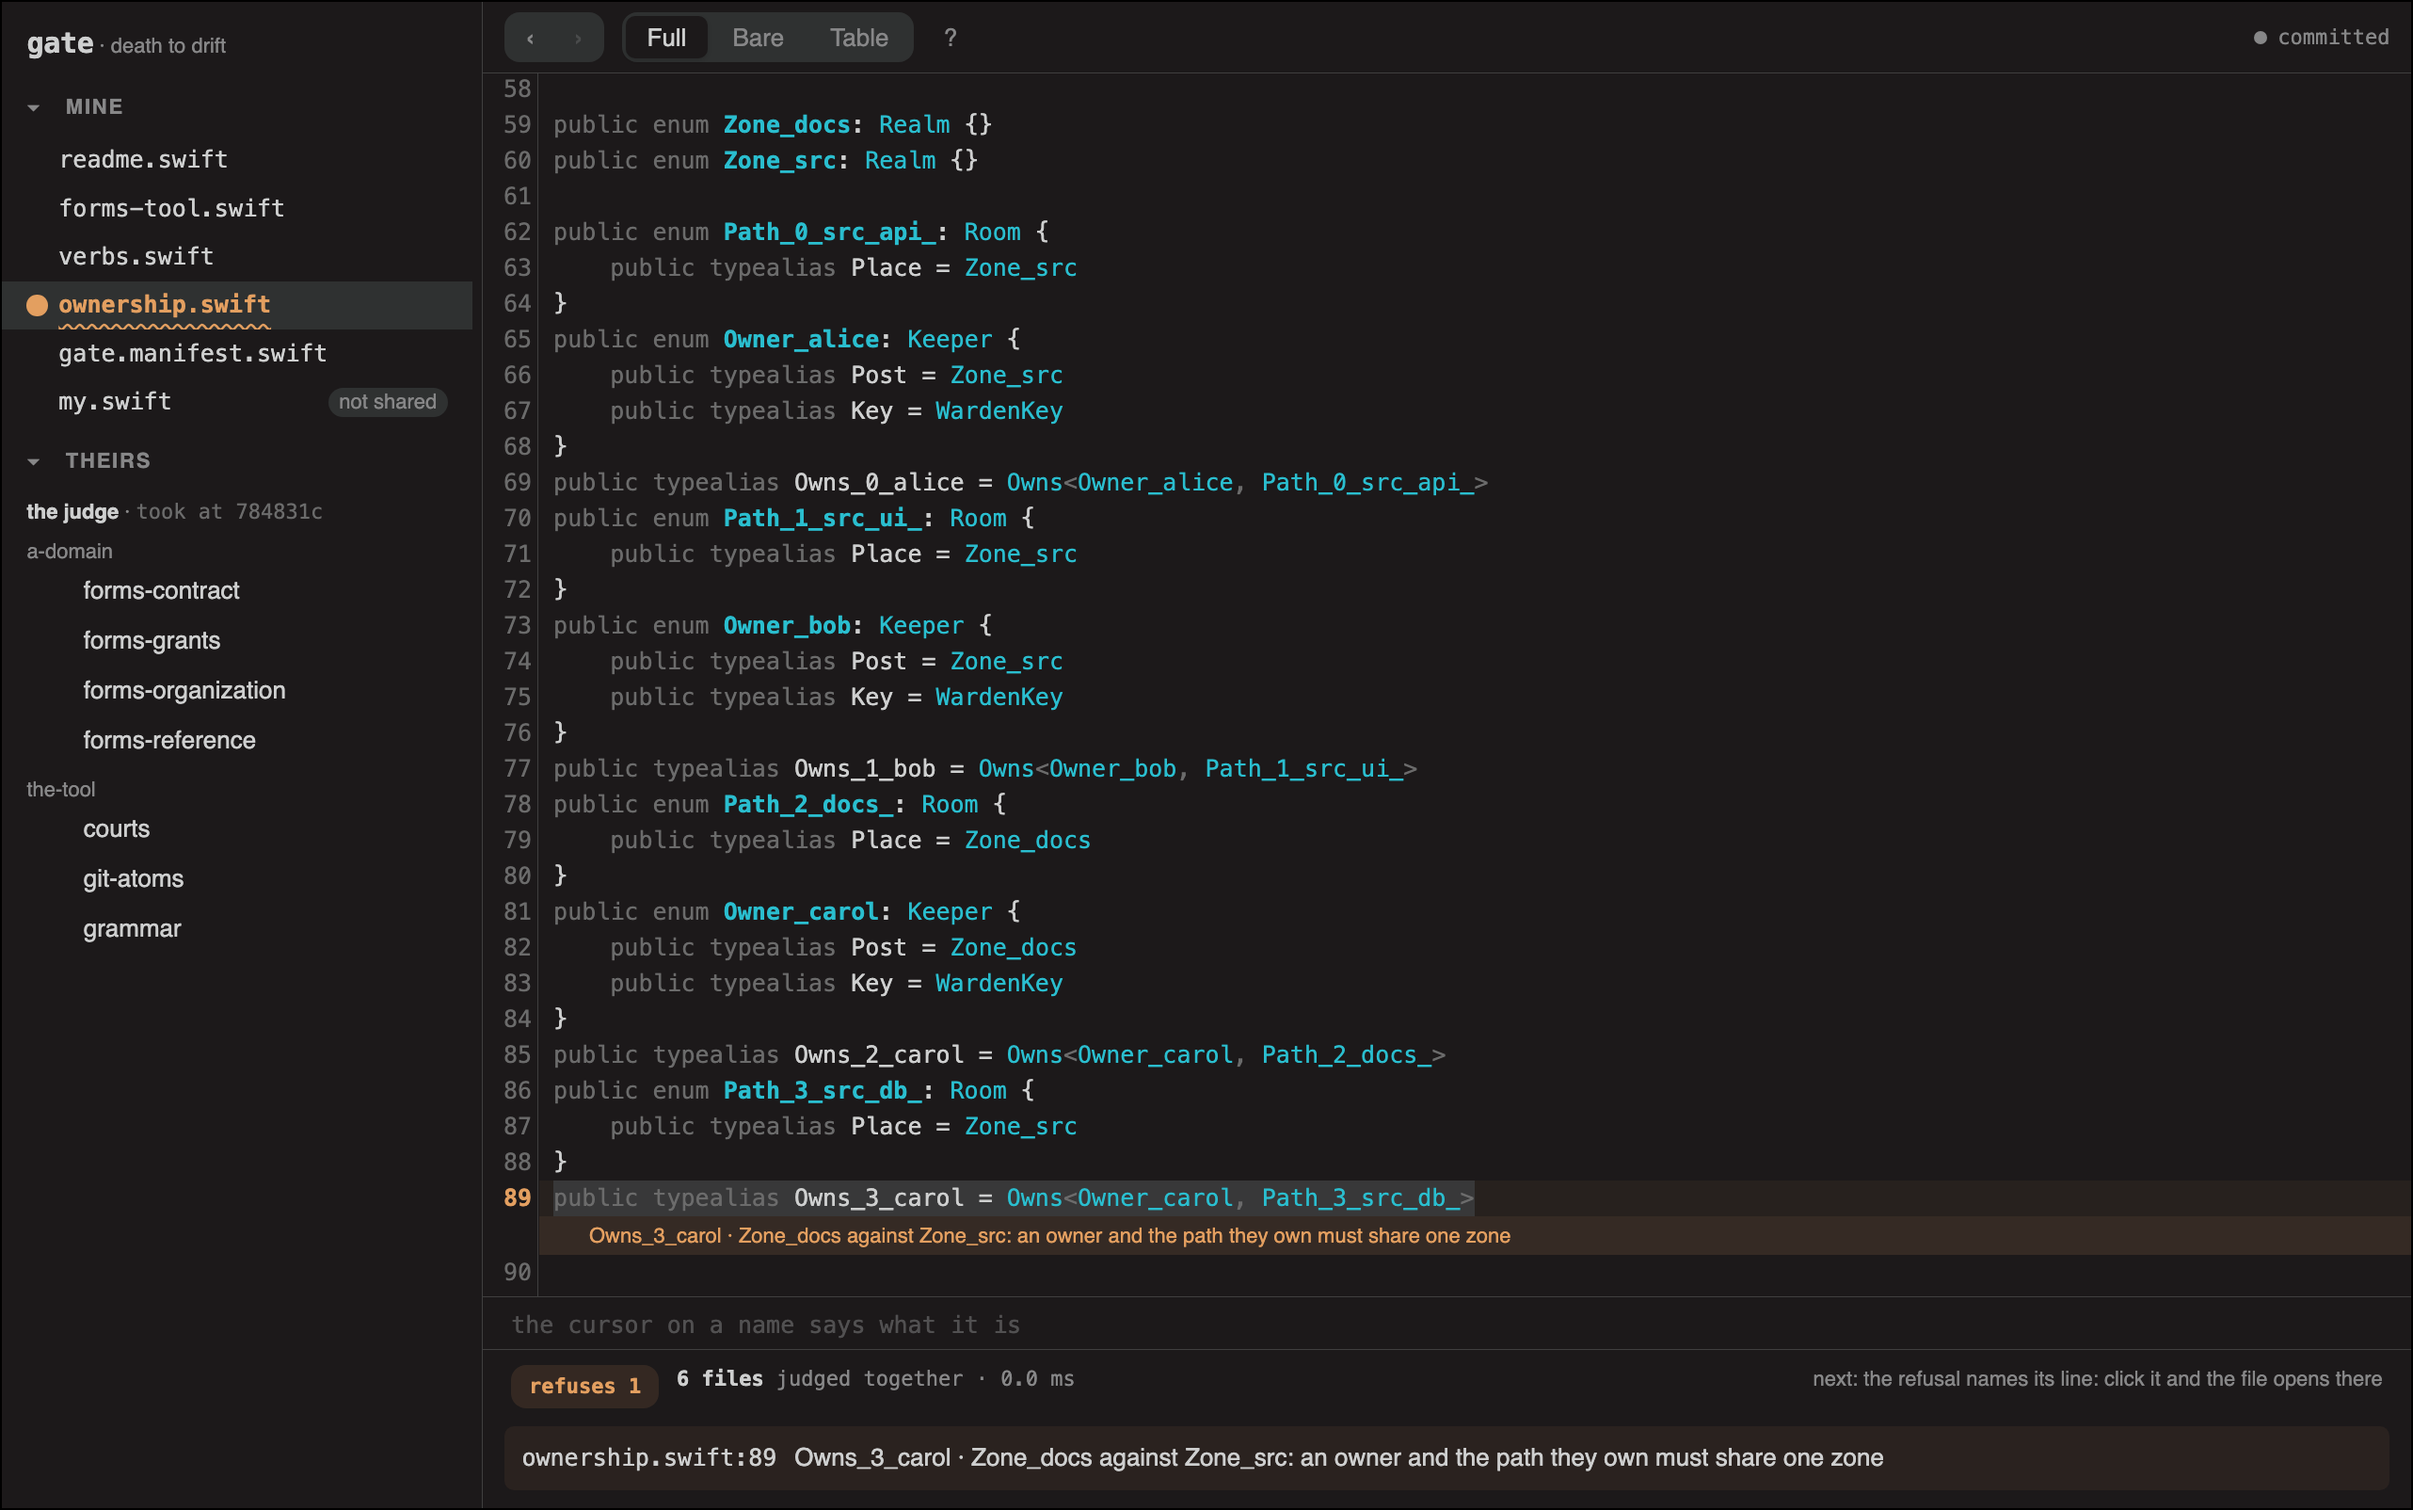
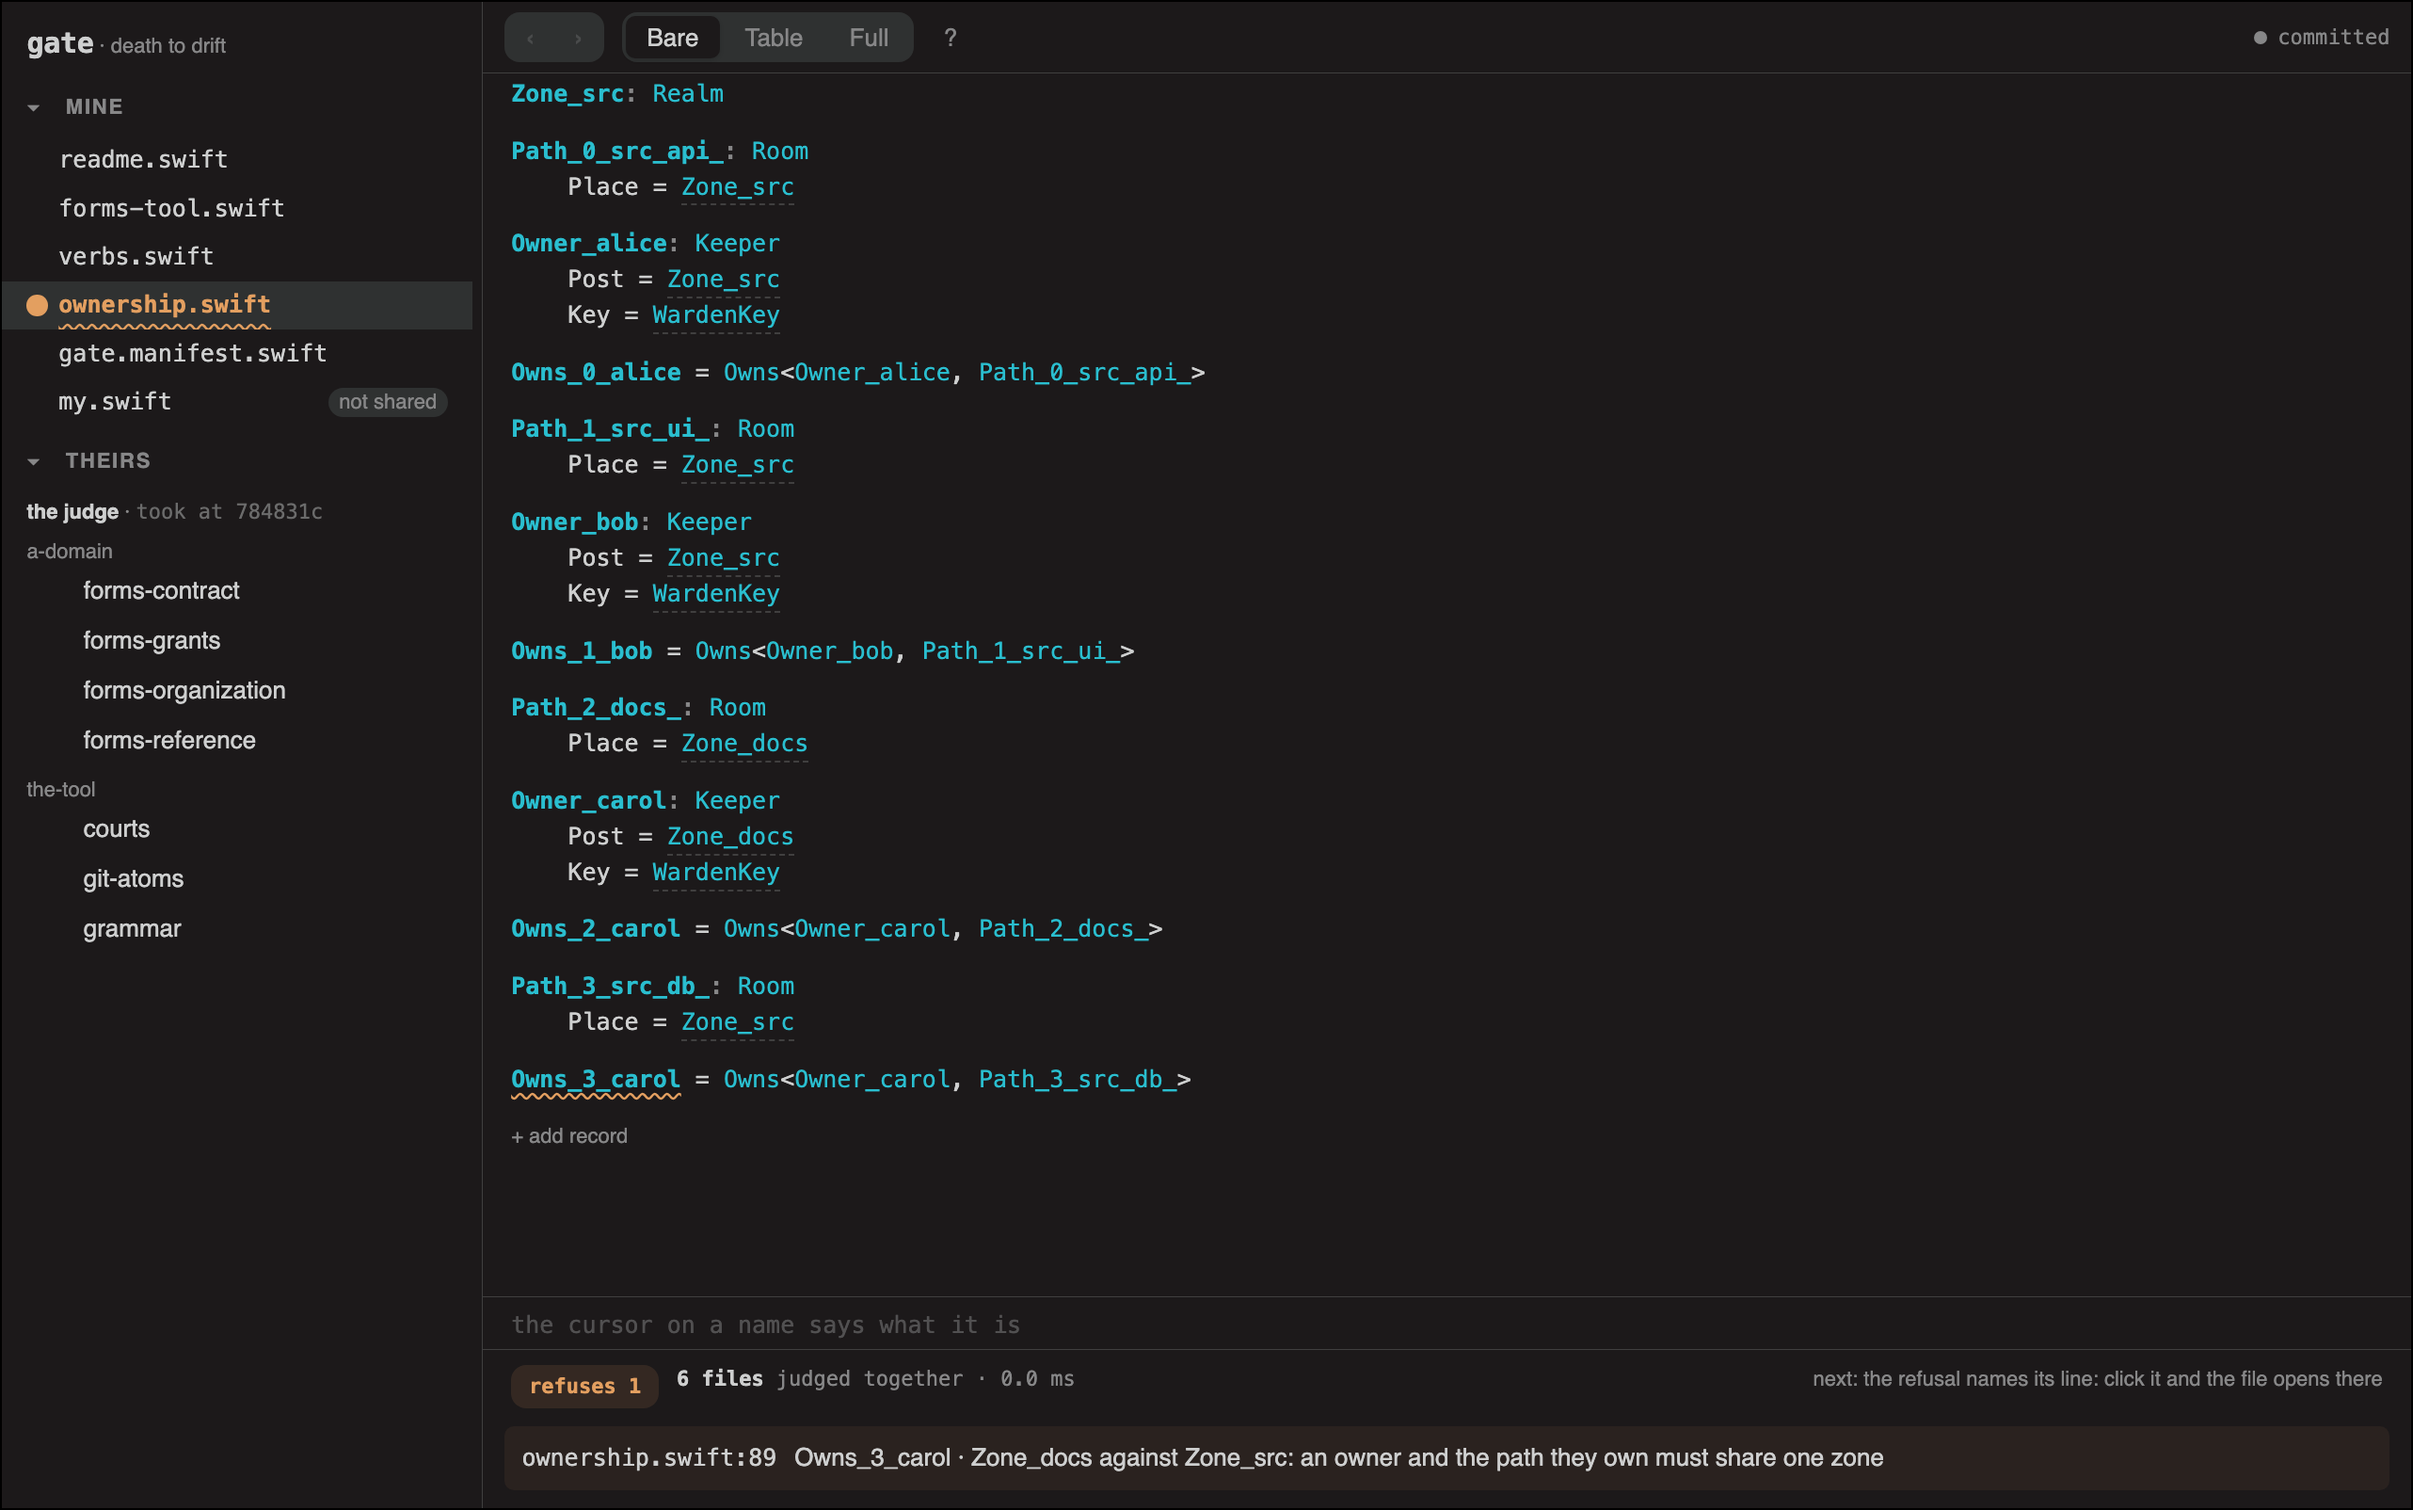
bench: the first surface is the record, the last is the swift
A reader arrives for what the world says, not for the ceremony it is
written in. The switch reads Bare, Table, Full in that order, the page
opens on Bare, and the Swift is one click from all three rather than
the thing you land in.

A door may name its view now. The address bar could name a file and a
line and never which surface to open in, so a link to a refusal always
landed in Full, and the cover's picture showed the ceremony. In Bare a
door's line brings its own record into sight instead of switching
surfaces, which needed the block to carry its line.

The cover's picture is retaken through that door: the same refusal, in
the view the bench opens on, with Owns_3_carol marked where it stands.

diff --git a/web/ui.html b/web/ui.html
@@ -1,8 +1,9 @@
 <!-- gate ui — the world bench, v2: the playground's shell, faithfully.
      CodeMirror editor with declared-name highlighting; the Code · Table
      surface switch (Table projects the world as sortable relations, click a
-     name to jump); Full · Bare (the same editor, ceremony collapsed from
-     view — full Swift, fully editable); a draggable file rail (the declared
+     name to jump); Bare · Table · Full, in that order and opening on Bare:
+     the record without ceremony is what a reader came for, and the full
+     Swift is a tab away, not a secret; a draggable file rail (the declared
      layout); the verdict docked at the bottom, Xcode-style; cross-file
      judgement over unsaved text. -->
 <meta charset="utf-8"><title>gate · world bench</title>
@@ -443,7 +444,7 @@ body{font:var(--speech);margin:0;color:var(--ink);background:var(--paper);displa
 <div id="main">
   <div id="bar">
     <span class="seg" id="nav-seg"><button id="nav-back" disabled>&lsaquo;</button><button id="nav-fwd" disabled>&rsaquo;</button></span>
-    <span class="seg" id="view-seg"><button class="on" data-m="full">Full</button><button data-m="bare">Bare</button><button data-m="table">Table</button></span>
+    <span class="seg" id="view-seg"><button class="on" data-m="bare">Bare</button><button data-m="table">Table</button><button data-m="full">Full</button></span>
     <b id="fname" class="fact">gate.swift</b>
     <button id="keys-btn" title="Keyboard shortcuts">?</button>
     <span id="gitstate" class="observed" title="Edits go straight to the file on disk. gate keeps no state of its own: commit or discard with git."></span>
@@ -780,7 +781,7 @@ let files = [], active = "", personalFile = null, personalEmpty = false, viewing
 // how each file asks to be first met, said in its own head line. A letter
 // opened in Full reads as code, and a rule about how much prose a file holds
 // would be a guess wearing a threshold — so the author says it, in their file.
-let opensAs = {};
+let opensAs = {}, doorView = null;
 // the sides of a seam this layout declares. Not bench files — their court is
 // `gate seam`, and one swept into the judged list broke a world once — but they
 // are rows of a document open on this screen, and a name the panel prints and
@@ -3275,7 +3276,12 @@ function bareForm(parsed, text) {
     items.sort((a, b) => a.line - b.line);
     // each item is a block of its own, so the gap between them is a declared
     // length rather than whatever line-height the font happens to carry
-    return items.map(i => '<span class="rec">' + (i.note || "") + i.block.join("\n") + "</span>").join("")
+    // ── AND A RECORD SAYS WHICH LINE IT IS. A door may name a line and this
+    // view, and without the number on the block there was nothing to bring into
+    // sight: the refusal was named in the bar at the bottom while the record it
+    // is about sat below the fold.
+    return items.map(i => '<span class="rec" data-line="' + i.line + '">'
+                     + (i.note || "") + i.block.join("\n") + "</span>").join("")
         + (reading() ? "" : '<span class="add caption" data-add-record="1">+ add record</span>');
 }
 // one delegated handler: a name in the bare view jumps to its declaration
@@ -3770,13 +3776,22 @@ buildRail();
         // `file` or `file:line`, so a printed refusal pastes straight into the
         // bar. A name the world does not have falls to the first file, and the
         // address corrects itself to what actually opened.
+        // ── AND A DOOR MAY NAME ITS VIEW. The address bar is the door, and it
+        // could name a file and a line but never which of the three surfaces to
+        // open in: a link to a refusal always landed in Full, so the picture on
+        // the cover, and any link anybody shares, showed the ceremony rather
+        // than the record. `view=bare|table|full` names it, and a line asked
+        // for in Bare marks its record instead of selecting its text.
+        const askedView = new URLSearchParams(location.search).get("view");
         const asked = new URLSearchParams(location.search).get("f") || "";
         const askedLine = asked.match(/:(\d+)$/);
         const askedFile = askedLine ? asked.slice(0, askedLine.index) : asked;
         const first = files.includes(askedFile) ? askedFile : (files[0] || "gate.swift");
         if (opensAs[first]) setMode(opensAs[first]);
         await loadFile(first);
+        if (["bare", "table", "full"].includes(askedView)) setMode(askedView);
         if (first === askedFile && askedLine) doorLine = +askedLine[1];
+        doorView = askedView;
     }
     // ── AND THE EDITOR IS MEASURED ONCE THE PAGE HAS A LAYOUT. CodeMirror
     // measures itself when it is built, and it is built while the rail is still
@@ -3791,7 +3806,15 @@ buildRail();
     // the fold
     requestAnimationFrame(() => {
         if (mode === "full") cm.refresh();
-        if (doorLine) reveal(doorLine);
+        // a door that named its view keeps it: revealing a line means Full,
+        // and the reader asked for the record, not the text under it. In Bare
+        // the same line brings its own record into sight instead.
+        if (doorLine && !doorView) reveal(doorLine);
+        else if (doorLine && mode === "bare") {
+            const blocks = [...document.querySelectorAll("#bare .rec[data-line]")];
+            const owner = blocks.filter(b => +b.dataset.line <= doorLine).pop();
+            if (owner) owner.scrollIntoView({ block: "center" });
+        }
     });
 })();
 

diff --git a/tests/smoke.py b/tests/smoke.py
@@ -8137,10 +8137,34 @@ public enum MyWatch: AccessLedger {
               and ui.index('if (mode === "full") cm.refresh();')
                   > ui.index("if (!readable.length && seamRows.length)")
               # and the door's line jump rides that same measured frame: scrolled
-              # earlier, the editor has no height yet and the line lands short
-              and "if (doorLine) reveal(doorLine);" in ui
-              and ui.index("if (doorLine) reveal(doorLine);")
-                  > ui.index('if (mode === "full") cm.refresh();')))
+              # earlier, the editor has no height yet and the line lands short.
+              # A door that names its view keeps it, and in Bare the same line
+              # brings its own record into sight instead of switching surfaces
+              and "if (doorLine && !doorView) reveal(doorLine);" in ui
+              and ui.index("if (doorLine && !doorView) reveal(doorLine);")
+                  > ui.index('if (mode === "full") cm.refresh();')
+              and 'owner.scrollIntoView({ block: "center" });' in ui))
+
+    # ── AND THE FIRST SURFACE IS THE RECORD, THE LAST IS THE SWIFT. A reader
+    # arrives for what the world says, not for the ceremony it is written in, so
+    # the switch reads Bare, Table, Full in that order and the page opens on
+    # Bare. The Swift is the last tab and not a secret: it is the one source
+    # under all three, and `Full` is one click from every one of them.
+    _seg = re.search(r'id="view-seg">(.*?)</span>', ui, re.S).group(1)
+    S.append(("the bench opens on the record, and the swift is the last tab",
+              [m for m in re.findall(r'data-m="(\w+)"', _seg)] == ["bare", "table", "full"]
+              and re.search(r'<button class="on" data-m="bare">', _seg)
+              and 'let mode = "bare";' in ui
+              # and a door may name its view, which is how the cover's picture
+              # is taken in the one the bench opens on
+              and 'const askedView = new URLSearchParams(location.search).get("view");' in ui
+              and 'if (["bare", "table", "full"].includes(askedView)) setMode(askedView);' in ui
+              # the shot is taken through that door, so the picture and the page
+              # cannot drift apart about which surface a reader meets
+              and "view=bare" in open(os.path.join(HERE, "bin", "shoot-bench.sh"),
+                                      encoding="utf-8").read()
+              and "view=bare" in open(os.path.join(HERE, "docs", "bench.png.from"),
+                                      encoding="utf-8").read()))
 
     # ── AND THE ADDRESS IS A DOOR. The bar reads the address the verdicts
     # speak, `?f=file` or `?f=file:line`, and opens there; every open file

diff --git a/README.md b/README.md
@@ -302,7 +302,7 @@ web/codemirror.*  the editor (CodeMirror 5, MIT, vendored)
 demo/           runnable worlds: CODEOWNERS + policy, CSV org, K8s RBAC
 docs/           DETAILS.md, SECURITY.md, CHANGELOG.md, NOTICE.md, and
                 the cover's picture with its provenance
-tests/smoke.py   the battery: 478 checks this repository holds itself
+tests/smoke.py   the battery: 479 checks this repository holds itself
                  to, end-to-end runs through judge parity through
                  documentation contracts; the definition of green
 tests/windows.py the Windows measure: the reviewer's road as asserts
